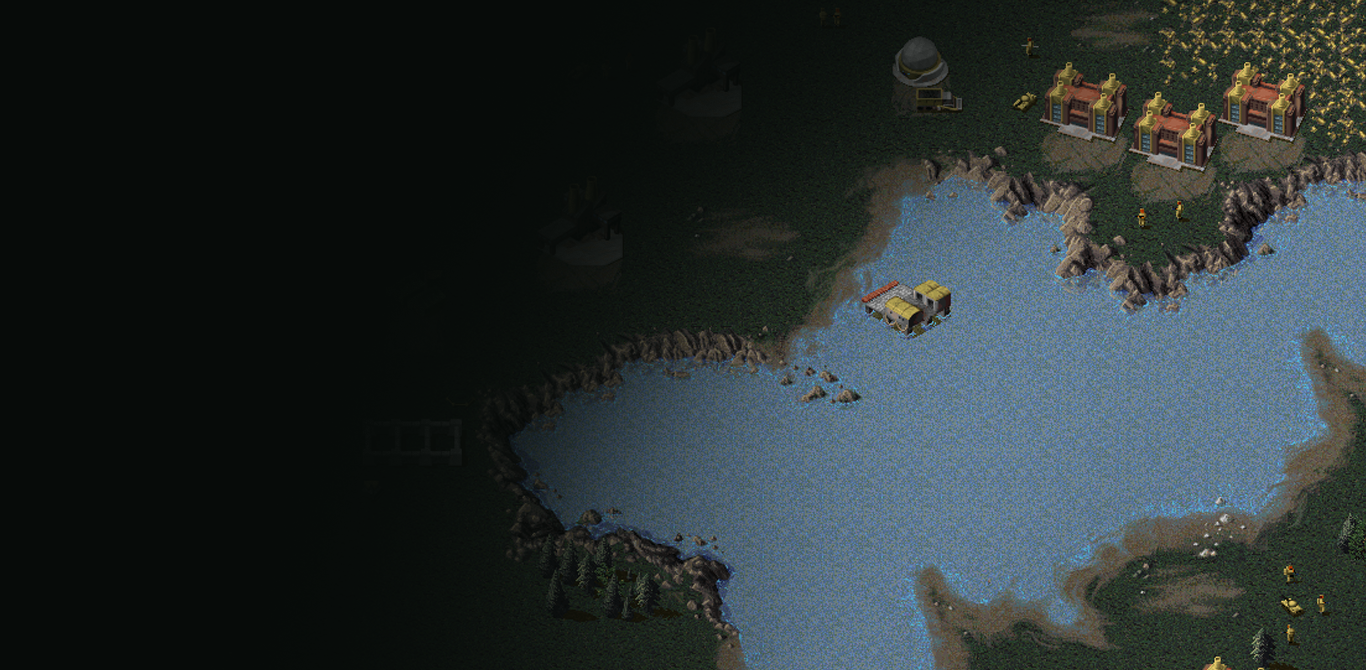
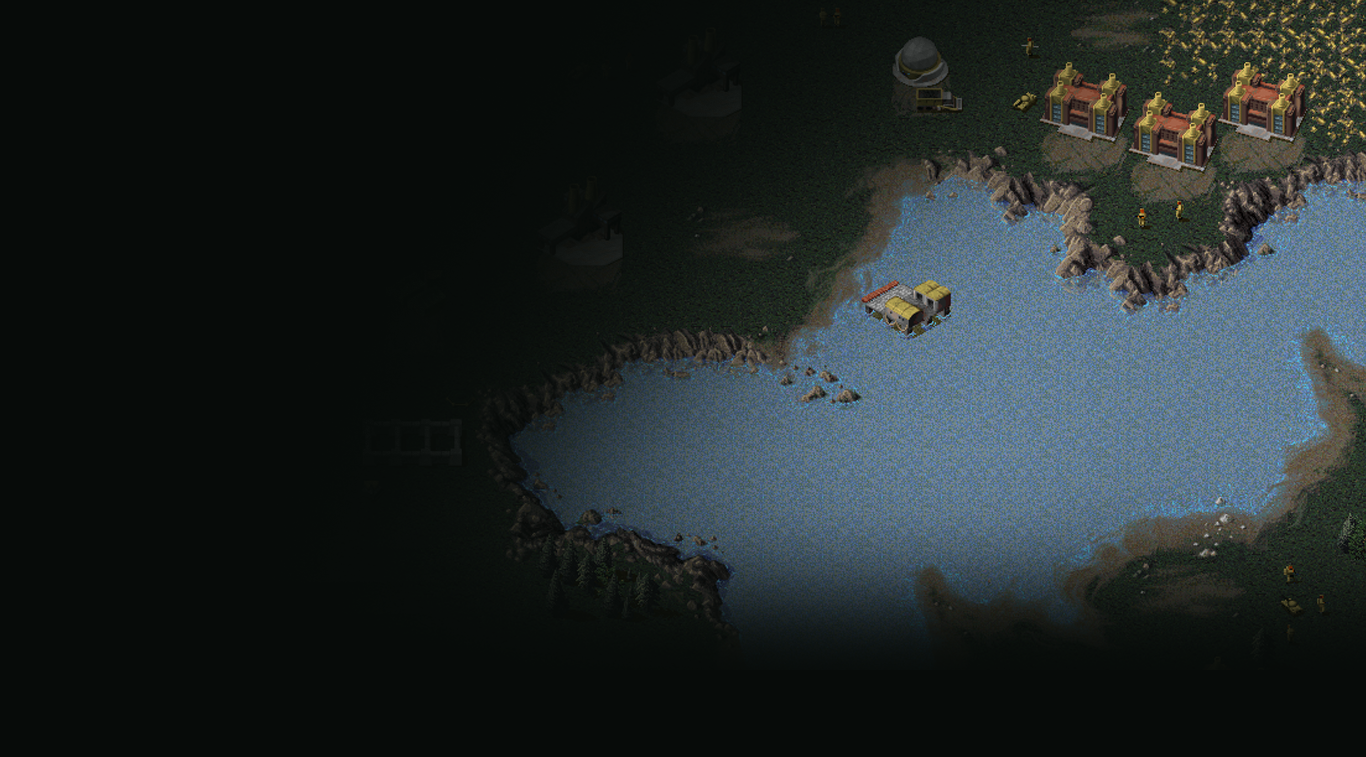
Quick tidy of some mobile css

diff --git a/dist/public/assets/css/app.css b/dist/public/assets/css/app.css
@@ -2169,7 +2169,7 @@ button.close { padding: 0; cursor: pointer; background: transparent; border: 0; 
 @media print { .visible-print-inline-block { display: inline-block !important; } }
 
 @media print { .hidden-print { display: none !important; } }
-.feature-banner { padding: 50px 0; background: #11161B url(../images/jumbo.png); background-position: right; background-repeat: no-repeat; }
+.feature-banner { padding: 50px 0; background: #11161B url(../images/jumbo.png); background-position: right; background-repeat: no-repeat; background-size: cover; }
 .feature-banner h1, .feature-banner h2 { font-family: "fira-sans", sans-serif; font-weight: 400; }
 .feature-banner h1 strong, .feature-banner h2 strong { font-weight: 500; }
 .feature-banner p { font-family: "fira-sans", sans-serif; font-weight: 100; color: #fff; }
@@ -2179,14 +2179,18 @@ button.close { padding: 0; cursor: pointer; background: transparent; border: 0; 
 .feature-banner .search input { background: rgba(0, 0, 0, 0.8); border: none; }
 .feature-banner .search .input-group-addon { background: #000; border-color: #000; }
 .feature-banner .back-to-leaderboard a { font-size: 15px; color: #888; }
-.feature-banner .logo.ra img, .feature-banner .logo.am img { max-width: 30%; }
-.feature-banner .logo.ts img { max-width: 50%; }
-.feature-banner .logo.yr img { max-width: 40%; }
+.feature-banner .logo > img { width: 300px; padding-top: 20px; padding-bottom: 20px; }
+.feature-banner .logo.ts > img { width: 400px; }
+.feature-banner .logo.fs > img { width: 250px; }
 
-.jumbo-ra, .jumbo-am { background: #070a09 url(../images/jumbo-ra.png); background-size: contain; background-position: right 0; background-repeat: no-repeat; }
+.jumbo-ra, .jumbo-am { background: #070b09 url(../images/jumbo-ra.png); background-size: contain; background-position: right 0; background-repeat: no-repeat; }
 
 .jumbo-ts, .jumbo-fs { background: #070a09 url(../images/jumbo-ts.png); background-size: contain; background-position: right 0; background-repeat: no-repeat; }
 
+/* Extra small devices (phones, less than 768px) */
+/* No media query since this is the default in Bootstrap */
+/* Small devices (tablets, 768px and up) */
+/* Medium devices (desktops, 992px and up) */
 .navbar { position: absolute; left: 0; right: 0; background: none; border: none; }
 .navbar .navbar-brand { padding: 20px 15px; }
 .navbar .open > .dropdown-toggle { background: #1B2128 !important; }

diff --git a/src/public/assets/sass/_feature-banner.scss b/src/public/assets/sass/_feature-banner.scss
@@ -8,6 +8,7 @@
   background: #11161B url(../images/jumbo.png);
   background-position: right;
   background-repeat: no-repeat;
+  background-size: cover;
 
   h1, h2 {
     font-family: "fira-sans", sans-serif;
@@ -55,19 +56,21 @@
     color: $gray-light;
   }
 
-  .logo.ra img, .logo.am img {
-    max-width: 30%;
+  .logo > img {
+    width: 300px;
+    padding-top: 20px;
+    padding-bottom: 20px;
   }
-  .logo.ts img {
-    max-width: 50%;
+  .logo.ts > img {
+    width: 400px;
   }
-  .logo.yr img {
-    max-width: 40%;
+  .logo.fs > img {
+    width: 250px;
   }
 }
 
 .jumbo-ra, .jumbo-am {
-  background: #070a09 url(../images/jumbo-ra.png);
+  background: #070b09 url(../images/jumbo-ra.png);
   background-size: contain;
   background-position: right 0;
   background-repeat: no-repeat;
@@ -78,4 +81,17 @@
   background-size: contain;
   background-position: right 0;
   background-repeat: no-repeat;
+}
+
+/* Extra small devices (phones, less than 768px) */
+/* No media query since this is the default in Bootstrap */
+
+/* Small devices (tablets, 768px and up) */
+@media (min-width: $screen-sm-min) {
+
+}
+
+/* Medium devices (desktops, 992px and up) */
+@media (min-width: $screen-md-min) {
+
 }

diff --git a/dist/public/index.html b/dist/public/index.html
@@ -68,7 +68,7 @@
                     </ul>
                 </li>
                 <li><a href="http://cnc-comm.com/community/">Forums</a></li>
-                <li><a href="/status">Status</a></li>
+                <li><a href="/status" class="hidden-sm">Status</a></li>
             </ul>
         </div>
     </div>

diff --git a/src/public/index.html b/src/public/index.html
@@ -68,7 +68,7 @@
                     </ul>
                 </li>
                 <li><a href="http://cnc-comm.com/community/">Forums</a></li>
-                <li><a href="/status">Status</a></li>
+                <li><a href="/status" class="hidden-sm">Status</a></li>
             </ul>
         </div>
     </div>

diff --git a/src/public/assets/sass/app.scss b/src/public/assets/sass/app.scss
@@ -12,5 +12,4 @@
 @import "_panel-profile";
 @import "_supported-games";
 @import "_search-results";
-@import "_player-games";
 @import "_home-listings";

diff --git a/src/public/assets/sass/_home-listings.scss b/src/public/assets/sass/_home-listings.scss
@@ -13,8 +13,4 @@
     background-size: 120%;
     background-position: 25% 50%;
   }
-
-  .game-details {
-
-  }
 }
